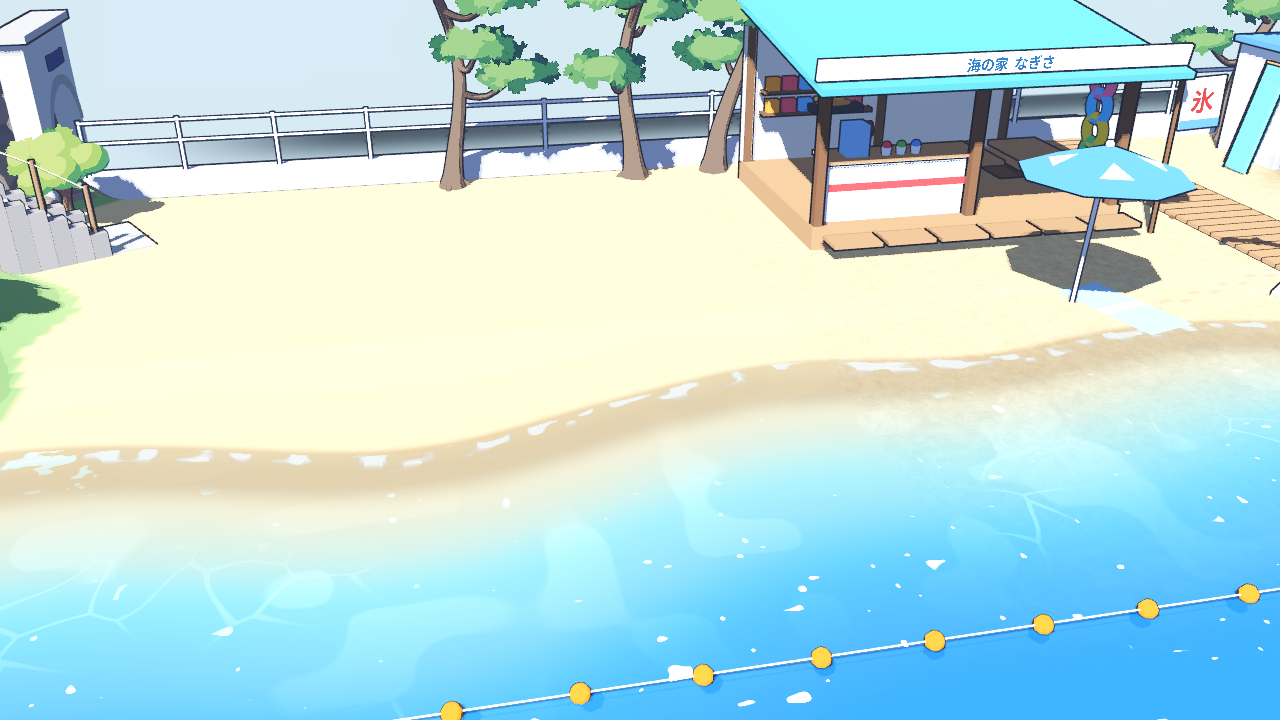
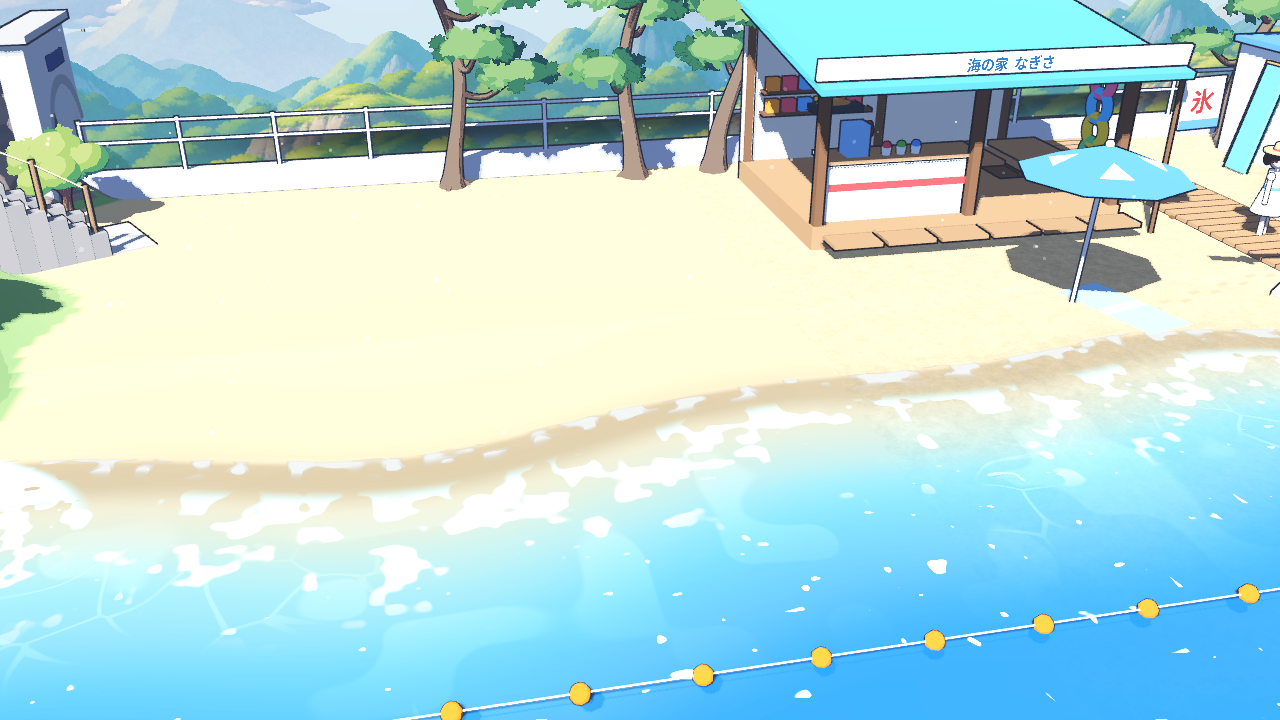
Coast: a girl you can walk around the diorama, the camera following her
A kit-built girl in a white summer dress and straw hat with a walk
cycle (scripts/konbini_walker.gd). WASD walks her relative to the
camera; a tap or click on the ground (a short press without a drag)
sends her there, with a ring marking the spot. The camera rig follows
her; drag turns, pinch zooms, R returns to the overview. She follows
the ground of both halves, wades into the shallows up to her knees,
climbs the headland by the stone steps (taps on the hilltop route
through them), goes up the boardwalk to the road and into the tunnel,
and stops at walls, buildings, the lighthouse and props on the sand.
The test walks her to a point and checks a blocked one.

Claude-Session: https://claude.ai/code/session_01JuNQs8VxyuqxoqKQNTs1C5

diff --git a/docs/konbini-diorama/README.md b/docs/konbini-diorama/README.md
@@ -82,10 +82,12 @@
 - ไม่มีรอยต่อ ถนน กำแพง และราวกั้นวางยาวชิ้นเดียวตั้งแต่ปากอุโมงค์ถึงปลายหาด ทะเลกับน้ำซัดหาดเป็นผิวเดียวคลุมทั้งสองครึ่ง แนวน้ำและจังหวะคลื่นเดียวกัน หน้าตัดตรงรอยต่อถูกตัดออก แนวทุ่นเขตว่ายน้ำเป็นเส้นเดียวยาวต่อเนื่องจากหน้าแหลมถึงปลายหาด
 - แต่ละบล็อกยังสร้างด้วยโค้ดเดิมในพิกัดของตัวเอง (โหมด `joined`) ใต้โหนดที่เลื่อนไปครึ่งของมัน บล็อกเดี่ยวยังเปิดแยกได้เหมือนเดิม
 - กล้องเลื่อนและซูมออกได้ไกลขึ้นให้พอกับความยาว
+- ตัวละครเดินได้ (`scripts/konbini_walker.gd`): เด็กสาวชุดเดรสขาวหมวกฟาง กล้องตามหลังแบบเกม ปุ่ม WASD เดินตามทิศกล้อง หรือแตะ/คลิกพื้นเพื่อเดินไปตรงนั้น (มีวงแหวนบอกจุดหมาย) ลากเพื่อหมุนกล้อง บีบเพื่อซูม กด R กลับมุมภาพรวม แล้วกด WASD หรือแตะเพื่อกลับมาตามตัวละคร เดินบนทราย ลงน้ำตื้นได้ถึงเข่า ขึ้นบันไดหินไปยอดเนิน (แตะยอดเนินแล้วเดินผ่านบันไดเอง) ขึ้นถนนทางสะพานไม้ และเข้าอุโมงค์ได้ ชนกำแพง ร้าน ห้องอาบน้ำ หอไลฟ์การ์ด ประภาคาร และของบนหาด
 - ฉากหลังหลอกตา (`scripts/konbini_backdrop.gd`, `shaders/konbini_flat.gdshader`): แผ่นบางๆ ตั้งบนขาค้ำเรียงกันด้านหลังฐาน ใช้ภาพวาดจาก ChatGPT ใน `assets/backdrop/` (เนินป่า ภูเขากลาง ยอดเขาไกล เมฆสองก้อน) แต่ละชั้นห่างกันจริงหลายเมตรและขยายตามระยะ จากมุมหลักจึงดูเหมือนเดิม แต่เวลาหมุนกล้องชั้นต่างๆ เลื่อนต่างกันจนรู้สึกลึก มองจากด้านข้างจะเห็นว่าเป็นแค่แผ่นบางๆ บนขาค้ำ วิธีสั่งวาดภาพอยู่ใน [chatgpt-backdrop-brief.md](chatgpt-backdrop-brief.md)
 
 ![ทั้งชายฝั่ง](coast-view-1.png)
 ![รอยต่อระหว่างแหลมกับหาด](coast-view-4.png)
+![เดินเล่นบนหาด](coast-walk.png)
 ![ฉากหลังเป็นแค่แผ่นบางๆ เมื่อมองจากด้านข้าง](coast-view-7.png)
 
 ## บรรยากาศวันแดดจ้า (แทนฝนและหิมะ)

diff --git a/.claude/skills/godot-diorama-scene/references/blocks.md b/.claude/skills/godot-diorama-scene/references/blocks.md
@@ -61,3 +61,15 @@ are the worked example. Follow it for the next block.
 - Render the overview, a view aimed right at the seam, and the top view. Look along the sand, the road, the
   wall and through the shallow water for any line, step or colour change.
 - Open the single blocks again: joined mode must not change them.
+
+## Walking a character through a diorama
+
+`scripts/konbini_walker.gd` (a kit-built girl with a walk cycle) walks the coast. The layout supplies two
+functions in world coordinates: `walk_ground(x, z)` (the terrain functions of each block shifted to its
+half, plus the real tread height on stairs, the road and tunnel floor, a ramp where the boardwalk meets
+the road) and `walk_blocked(x, z)` (walls, buildings, props, the base edge). She refuses steps steeper than
+about 1:1 and water deeper than her knees. The camera rig follows her (`follow`), taps without a drag are a
+`tapped` signal turned into a ground point by marching the camera ray until it goes under `walk_ground`,
+and a tap on the hilltop routes through the stairs (`stair_route`). On iPad there is no UI: tap to walk,
+drag to turn, pinch to zoom. Probe with a script that calls `walk_to` and steps `_process`, then look at a
+close render: the first close-up caught her standing inside the cooler.
